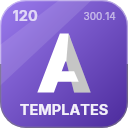
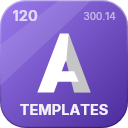
UI packages 0.1.0-alpha.2 (#250)
* UI packages 0.1.0-alpha.2

On engine packages 0.1.0-alpha.5. The packages' icons redrawn with the bevel that fades down the sides, and an icon
for Adamantium.UI.LanguageServer, first published in this version. Adamantium.UI depends on the Adamantium.DBus package
as it does on its project, or a build from packages did not compile. adam-auto is not packed yet. Unreleased becomes
0.1.0-alpha.2.

* README: Adamantium.UI.Automation in the package list

---------

Changed region(s): [[0.0625, 0.9375, 0.9375, 1.0], [0.9375, 0.1875, 1.0, 0.9375], [0.0, 0.1875, 0.0625, 0.9375]]

diff --git a/CHANGELOG.md b/CHANGELOG.md
@@ -5,6 +5,8 @@ All packages share one version.
 
 ## Unreleased
 
+## 0.1.0-alpha.2 - 2026-11-03
+
 ### Added
 
 - Text set inside any shape: `TextBlock.Shape` (a geometry in the block's own coordinates) fills its closed figures
@@ -1856,8 +1858,8 @@ All packages share one version.
   (from 0, `[-1]` the last), and `parent`, `next` and `previous` step from the element before -
   `id=Orders>type=DataItem[2]/name=Delete`, `id=Cut/next`. In code: `By.At`, `By.Parent` / `Next` / `Previous`,
   `AutomationElement.Child`, `At`, `Parent()`, `Next()`, `Previous()`.
-- `adam-auto` is a package of its own, `Adamantium.UI.Automation.Cli`, installed as a .NET tool
-  (`dotnet tool install -g Adamantium.UI.Automation.Cli`); `adam-auto start --exe <path>` starts an application of yours.
+- `adam-auto` is a .NET tool of its own, `Adamantium.UI.Automation.Cli`; `adam-auto start --exe <path>` starts an
+  application of yours. Not published in this version - built from the repository.
 - `<AdamantiumRequireAutomationId>true</AdamantiumRequireAutomationId>` in a project makes a build warning (AUI011) of
   every button, field, list, slider... in its markup that has neither `AutomationProperties.AutomationId` nor `x:Name`
   to be found by. Controls in templates are left out. Off unless set.

diff --git a/README.md b/README.md
@@ -378,6 +378,7 @@ Alpha: what is listed above works, and the API will change. Not there yet:
 | `Adamantium.UI.Markup` | The AUML parser and document model |
 | `Adamantium.Navigation` | Navigation, regions and dialogs driven from view-models |
 | `Adamantium.UI.LanguageServer` | The AUML language server, copied to `AumlServer` beside an application that edits AUML |
+| `Adamantium.UI.Automation` | Drives an application in tests: its windows headless in the test's process, or the application itself through its automation agent |
 | `Adamantium.UI.Templates` | The `dotnet new` templates |
 
 All packages share one version and are released together.
